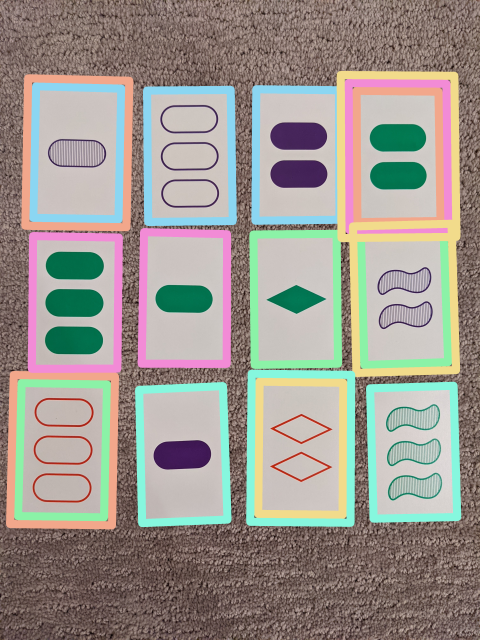
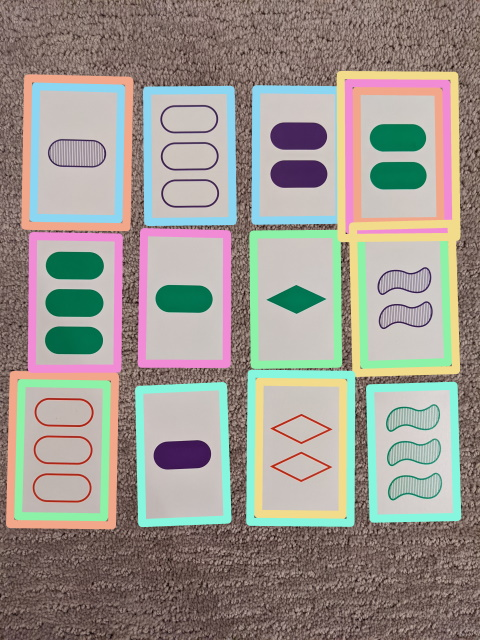
Update solved images

diff --git a/README.md b/README.md
@@ -2,13 +2,13 @@
 
 Identifies sets of [SET](https://en.wikipedia.org/wiki/Set_(card_game)) cards in images.
 
-![Solved set](./img/solved/d_small.png)
+![Solved set](./img/solved/b_small.jpg)
 
 ## Use
 
 Install preequisites into a virtual environment:
 ```
-python3 -m virtualenv venv
+python3 -m venv venv
 source venv/bin/activate
 pip install -r requirements.txt
 ```
